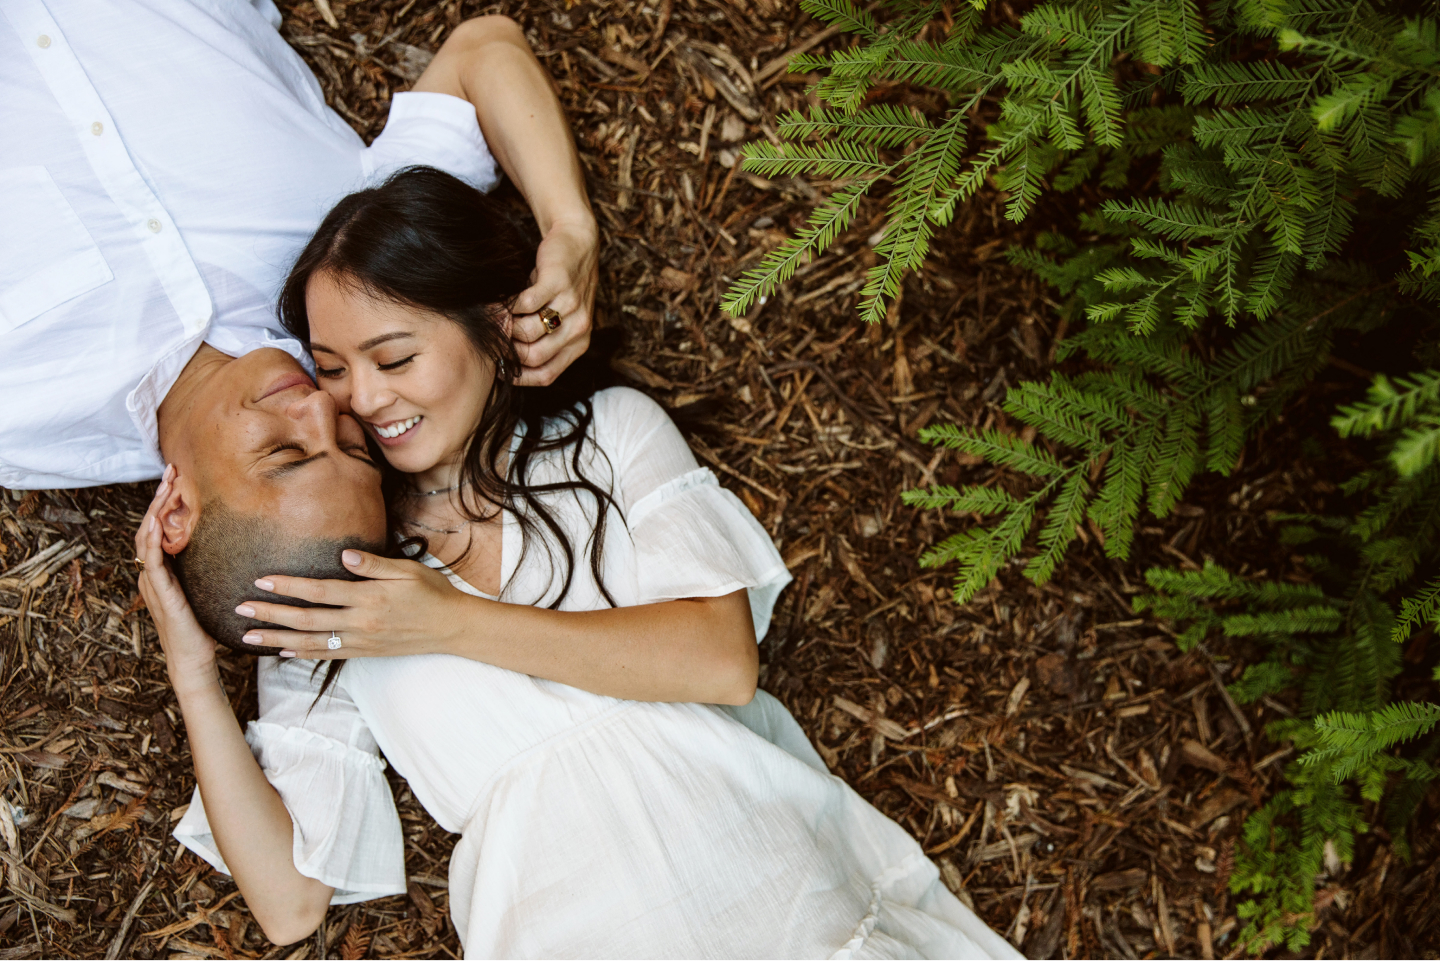
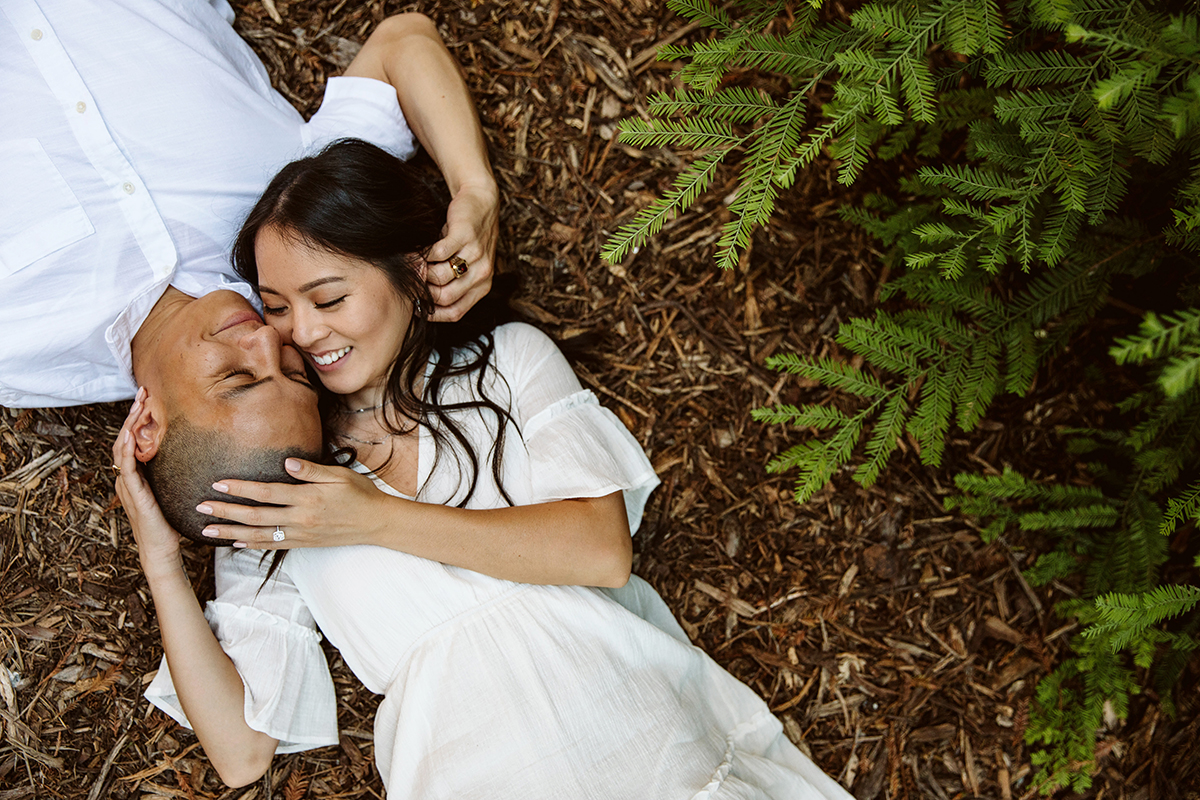
Update photos

diff --git a/src/components/OurStory.tsx b/src/components/OurStory.tsx
@@ -7,8 +7,8 @@ import StorySection from './StorySection';
 import storyPhoto1 from '../assets/our-story/boba.jpg';
 import zetaPhoto from '../assets/our-story/zeta.jpg';
 import alcove from '../assets/our-story/alcove.jpg';
-import storyPhoto3 from '../assets/our-story/IMG_9146-1.jpg';
-import cheeks from '../assets/our-story/usc-cheeks.jpg';
+import storyPhoto3 from '../assets/our-story/adventures-comp.png';
+import cheeks from '../assets/our-story/usc-comp.png';
 import pomPoms from '../assets/our-story/IMG_0558-1.jpg';
 import proposal from '../assets/photos/proposal.png';
 import GoldTextClip from './GoldTextClip';
@@ -79,7 +79,11 @@ const OurStory = () => {
           and right before the movie began, I asked her to be my girlfriend, and
           the rest is history!
         </StorySection>
-        <StorySection image={storyPhoto3} format="image-left">
+        <StorySection
+          image={storyPhoto3}
+          format="image-left"
+          objectFit="contain"
+        >
           Since then, we’ve gone on many more adventures and started a hashtag:
           #duckiexduarteadventures. “Duckie” is a nickname she gave to me (ask
           Dorothy why if you’re interested) and “Duarte” is the nickname she
@@ -87,7 +91,7 @@ const OurStory = () => {
           see her favorite DJ, Kaskade. Since then, we’ve gone to many more of
           his shows and have made it an annual tradition to see him live.
         </StorySection>
-        <StorySection image={cheeks} format="image-right">
+        <StorySection image={cheeks} format="image-right" landscape>
           We’ve also gone to various cities around the world and have made it a
           mission to collect refrigerator magnets of the cities we visit. As
           relatively diehard USC football fans since our childhood, we went to

diff --git a/src/components/StorySection.tsx b/src/components/StorySection.tsx
@@ -6,12 +6,12 @@ import { Paragraph as P } from './Typography';
 const Mobile = tw.div`hidden md:block`;
 
 interface ImageContainerProps {
-  landscape: boolean;
+  landscape?: boolean;
 }
 
 const ImageContainer = styled.div<ImageContainerProps>`
   ${tw`relative flex-1 w-full rounded-3xl md:rounded-sm overflow-hidden pt-140 md:mb-3 md:pt-80`}
-  ${({ landscape }) => landscape && tw`pt-80`}
+  ${({ landscape = false }) => landscape && tw`pt-96`}
 `;
 
 interface ContainerProps {
@@ -73,6 +73,7 @@ interface StorySectionBaseProps {
   image?: StaticImageData;
   format: 'image-left' | 'image-right';
   landscape?: boolean;
+  objectFit?: any;
 }
 
 type StorySectionProps = React.PropsWithChildren<StorySectionBaseProps>;
@@ -81,6 +82,7 @@ const StorySection = ({
   image,
   format,
   landscape = false,
+  objectFit = 'cover',
   children,
 }: StorySectionProps) => {
   return (
@@ -91,7 +93,7 @@ const StorySection = ({
           y={imageParallaxValues[format].y}
         >
           <ImageContainer landscape={landscape}>
-            <Image src={image} layout="fill" objectFit="cover" />
+            <Image src={image} layout="fill" objectFit={objectFit} />
           </ImageContainer>
         </StyledParallax>
       )}
@@ -107,7 +109,7 @@ const StorySection = ({
       <Mobile>
         {image && (
           <ImageContainer>
-            <Image src={image} layout="fill" objectFit="cover" />
+            <Image src={image} layout="fill" objectFit={objectFit} />
           </ImageContainer>
         )}
         <Paragraph>{children}</Paragraph>
